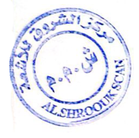
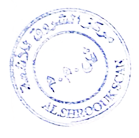
Receipt: make the seal read as a real stamp
Two things were stopping it. Checked both before moving anything.

The asset was fully opaque - alpha 255 everywhere, 73% of it solid white - so
overlapping it onto the address would have painted a white box over the words
rather than inking over them. Its alpha is now derived from how far each pixel
sits from white, on a curve that keeps the ink dense and the anti-aliased edges
soft, so the paper drops out and the text reads through.

Draw order was already correct: the seal is drawn last, so it composites over
everything beneath it.

With that fixed the seal is shifted left and down onto the address and phone
line, tilted, and allowed to run past the bottom of the frame - pressed onto a
finished receipt rather than parked in a gap left for it.

Changed region(s): [[0.0576, 0.029, 0.9496, 0.9275]]

diff --git a/app/api/invoices/[id]/pdf/route.js b/app/api/invoices/[id]/pdf/route.js
@@ -260,14 +260,24 @@ async function generateInvoicePdf(req, params) {
     page.drawImage(taImg, { x: startX + digitsW + 6, y: 70.9, width: taW, height: taH });
   }
 
-  // Seal: 93pt across, centred at (468.3, 76) - low enough that it runs past
-  // the bottom of the frame, as it does on the issued receipt.
+  // Seal. Drawn last so it sits over everything, and shifted left and down so
+  // it lands ON the address and the phone line and runs past the bottom of the
+  // frame - a stamp pressed onto a finished receipt, not placed in a gap left
+  // for it.
+  //
+  // This only works because the asset's paper was made transparent: the file
+  // was fully opaque, 73% of it solid white, so overlapping it on the text
+  // would have painted a white box over the words instead of inking over them.
   if (stamped) {
-    const stampW = 93, stampH = stampW * (138 / 139);
-    page.drawImage(stampImage, {
-      x: 468.3 - stampW / 2, y: 76 - stampH / 2,
-      width: stampW, height: stampH, opacity: 0.85,
-    });
+    const stampW = 104, stampH = stampW * (138 / 139);
+    const tilt = -9;
+    const rad = (tilt * Math.PI) / 180;
+    const cx = 424, cy = 74;
+    // pdf-lib rotates about the anchor rather than the centre, so the anchor is
+    // worked back from where the seal should actually land.
+    const x = cx - ((stampW / 2) * Math.cos(rad) - (stampH / 2) * Math.sin(rad));
+    const y = cy - ((stampW / 2) * Math.sin(rad) + (stampH / 2) * Math.cos(rad));
+    page.drawImage(stampImage, { x, y, width: stampW, height: stampH, rotate: degrees(tilt), opacity: 0.9 });
   }
 
   const bytes = await pdf.save();
